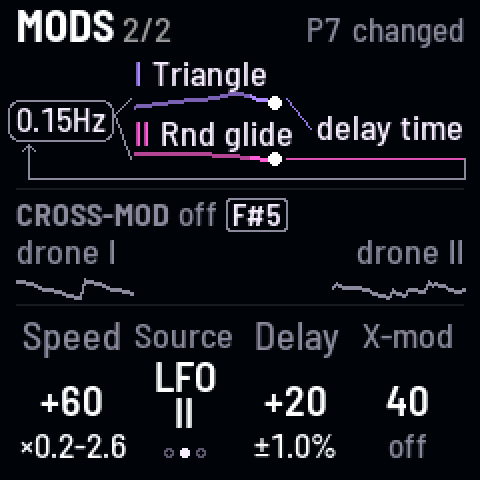
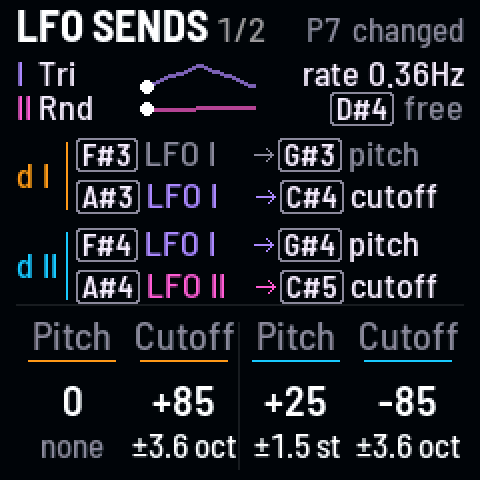
LFO chasing itself made obvious: a vibrato on drone II from LFO I, Speed mod at the top (x0.2-15), Source LFO I for a regular rush and drag

diff --git a/docs/manual/recipes/sounds.md b/docs/manual/recipes/sounds.md
@@ -232,23 +232,26 @@ two filters in turn.
 
 *Speed mod: the LFO rushing and dragging on its own wave*
 
-Speed mod lets an LFO speed up and slow down on one of its own waves, so every sweep rushes, then drags.
+Speed mod lets the LFO speed up and slow down on one of its own waves, so every wobble rushes, then drags. It's
+easiest to hear on a vibrato.
 
-1. Press [[LFO]] twice for the **Mods** page.
-2. Turn KNOB 1, Speed, up: the LFO speeds up and slows down by up to three octaves.
-3. Turn KNOB 2, Source, to pick which wave does it: LFO I, LFO II or both.
+1. Press [[LFO]] for **LFO sends**. Tap key 6, [[F#4]], until LFO I moves drone II's pitch, and turn KNOB 3, its pitch
+   send, up: a slow vibrato.
+2. Press [[LFO]] again for **Mods**, and turn KNOB 1, Speed, all the way up: the LFO speeds up and slows down by up to
+   three octaves.
+3. Turn KNOB 2, Source, to **LFO I**: a regular rush and drag (LFO II's random glide makes it uneven).
 
 > **Good to know.** Speed mod moves the rate of everything the LFO moves at once: the filters, the pitches, the
-> delay. **Sonar** (P7) with it sweeps unevenly.
+> delay. Speed at 0 steadies it again.
 
-![Mods, Speed +60, Source LFO II](../media/chase-0.png "Speed +60")
-![Mods, Source LFO I and II](../media/chase-1.png "Source: both")
+![LFO sends, LFO I on drone II's pitch](../media/chase-0.png "a vibrato on drone II")
+![Mods, Speed +100, Source LFO I](../media/chase-1.png "Speed +100, LFO I")
 
 **Listen** (`chase`)
 
-- 0:00 P7 Sonar as it starts
-- 0:01 Speed mod up: the LFO speeds up and slows down on its own wave, the sweep rushing and dragging
-- 0:09 Source to both LFOs: the push and pull gets lopsided
+- 0:00 P7 Sonar with a vibrato on drone II: a slow, steady wobble
+- 0:03 Speed mod to the top, driven by LFO I's triangle: the wobble rushes, then drags, over and over
+- 0:14 Speed back to 0: the wobble steady again
 
 ## Echoes and space
 
